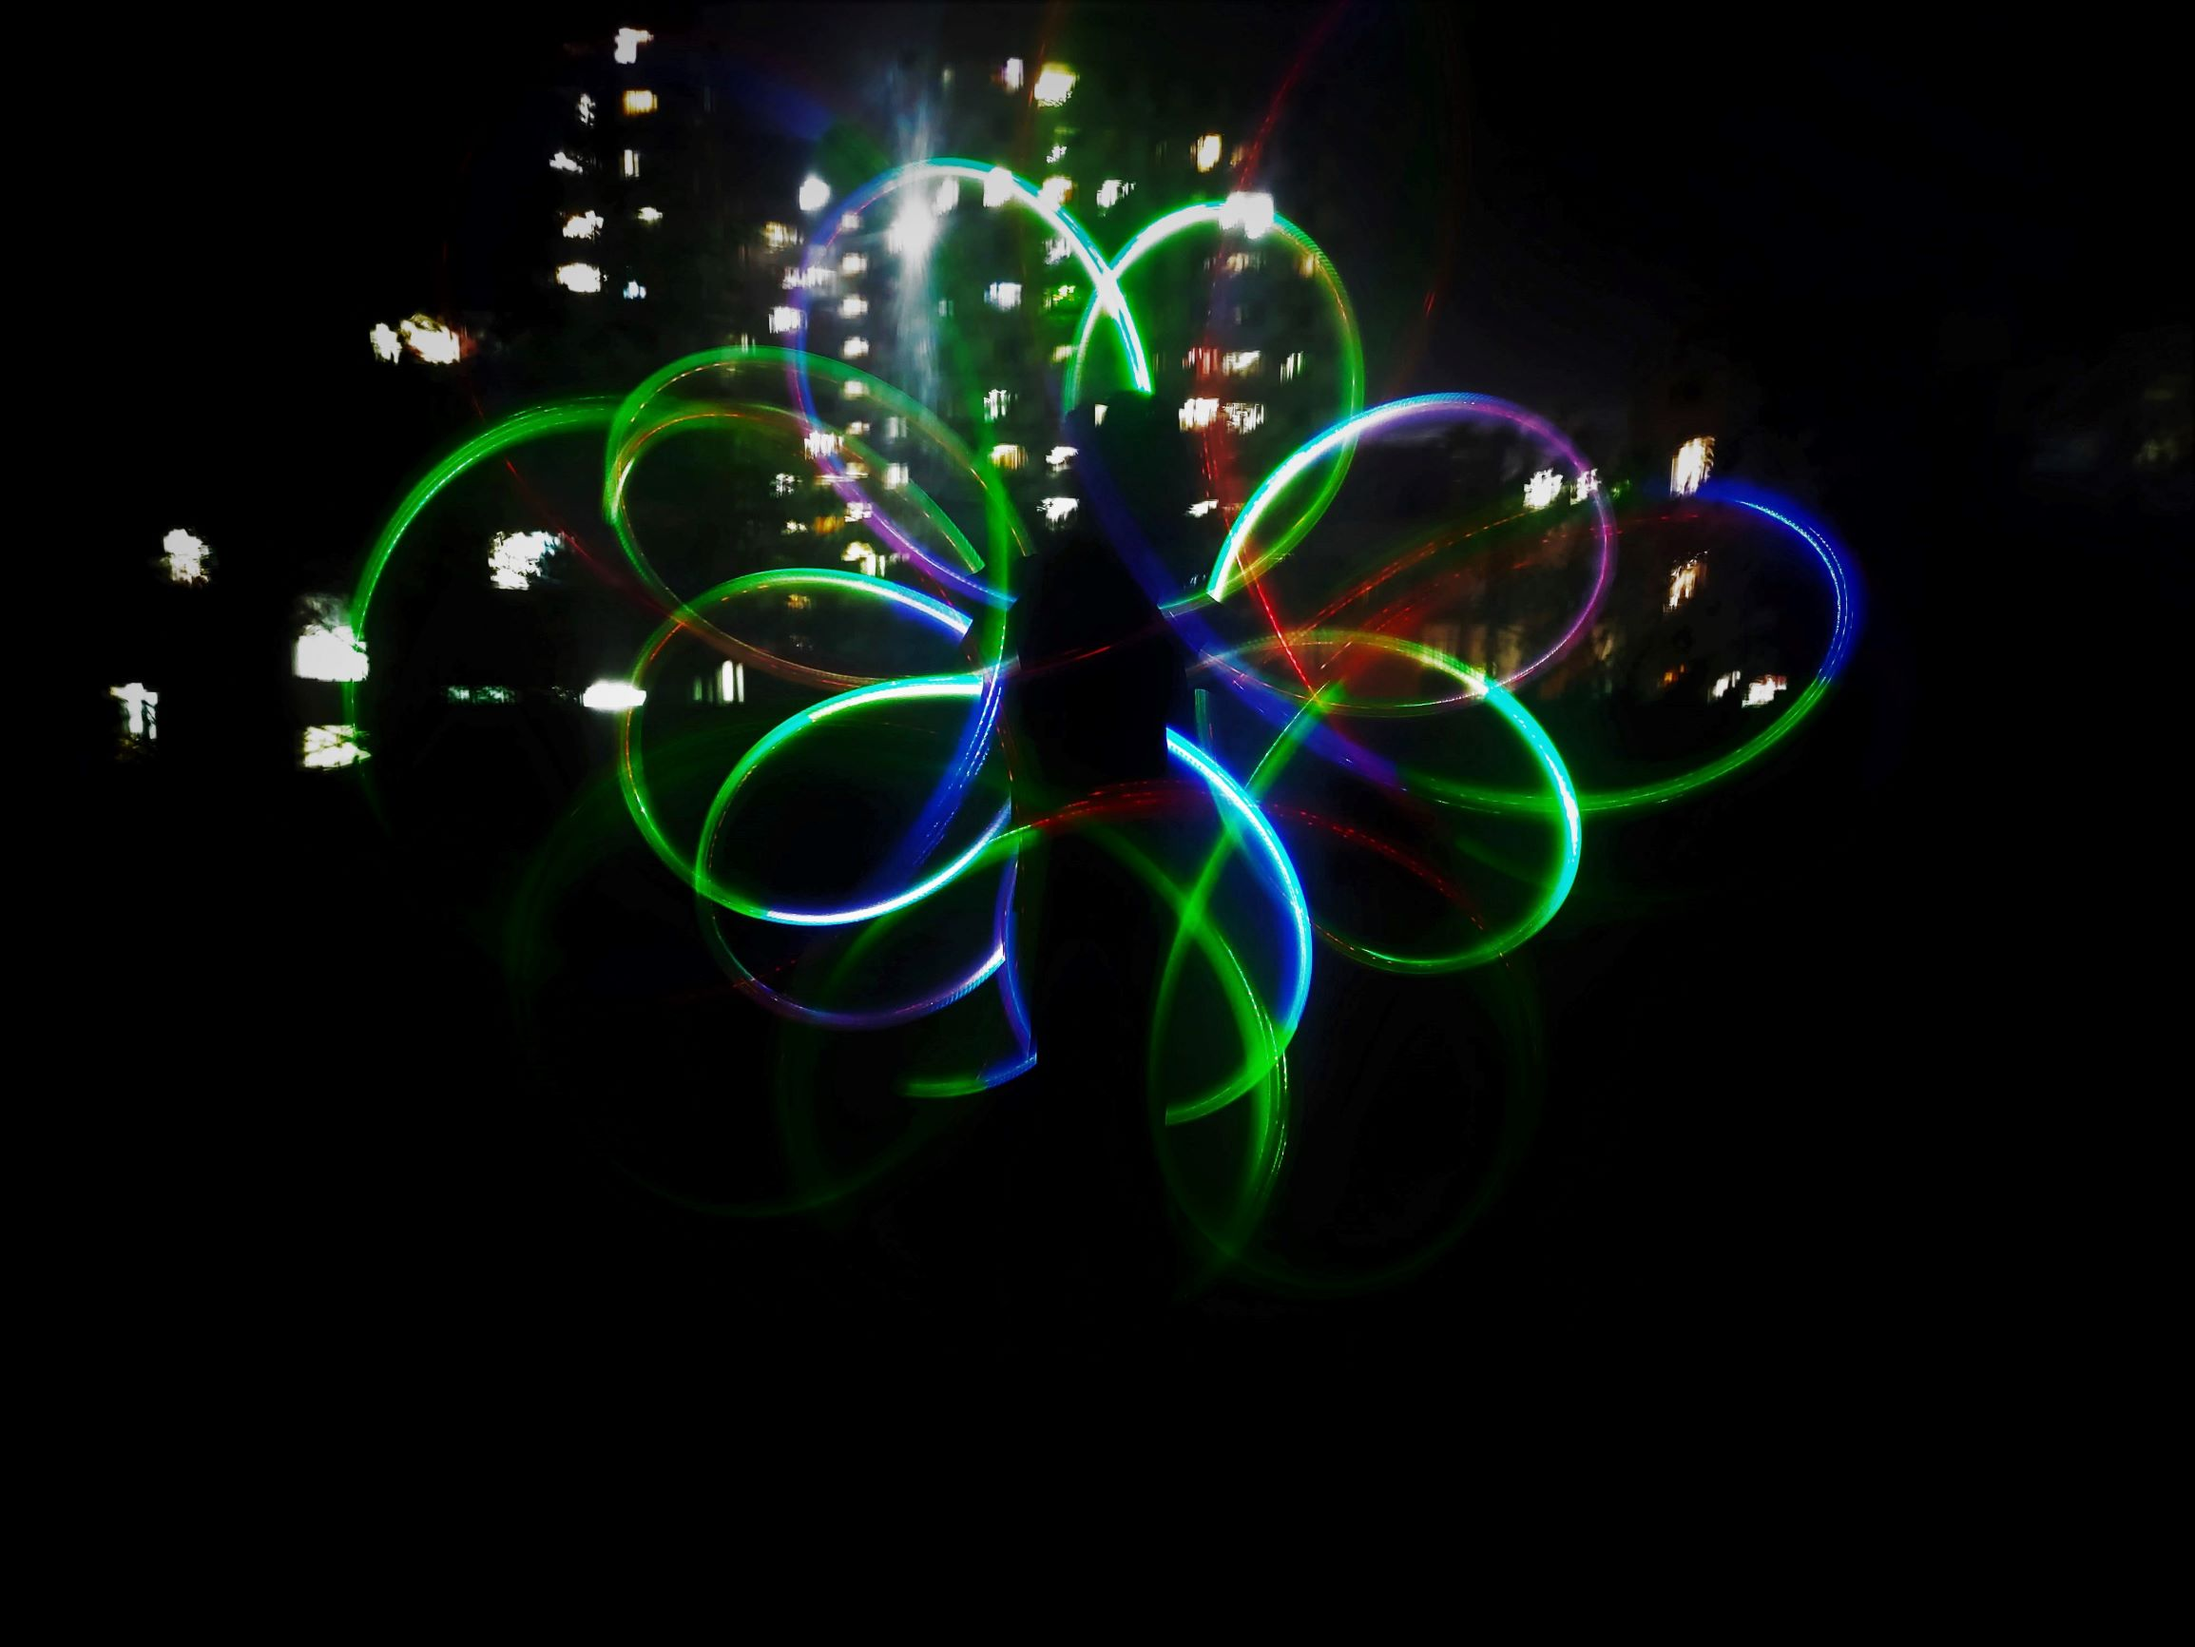
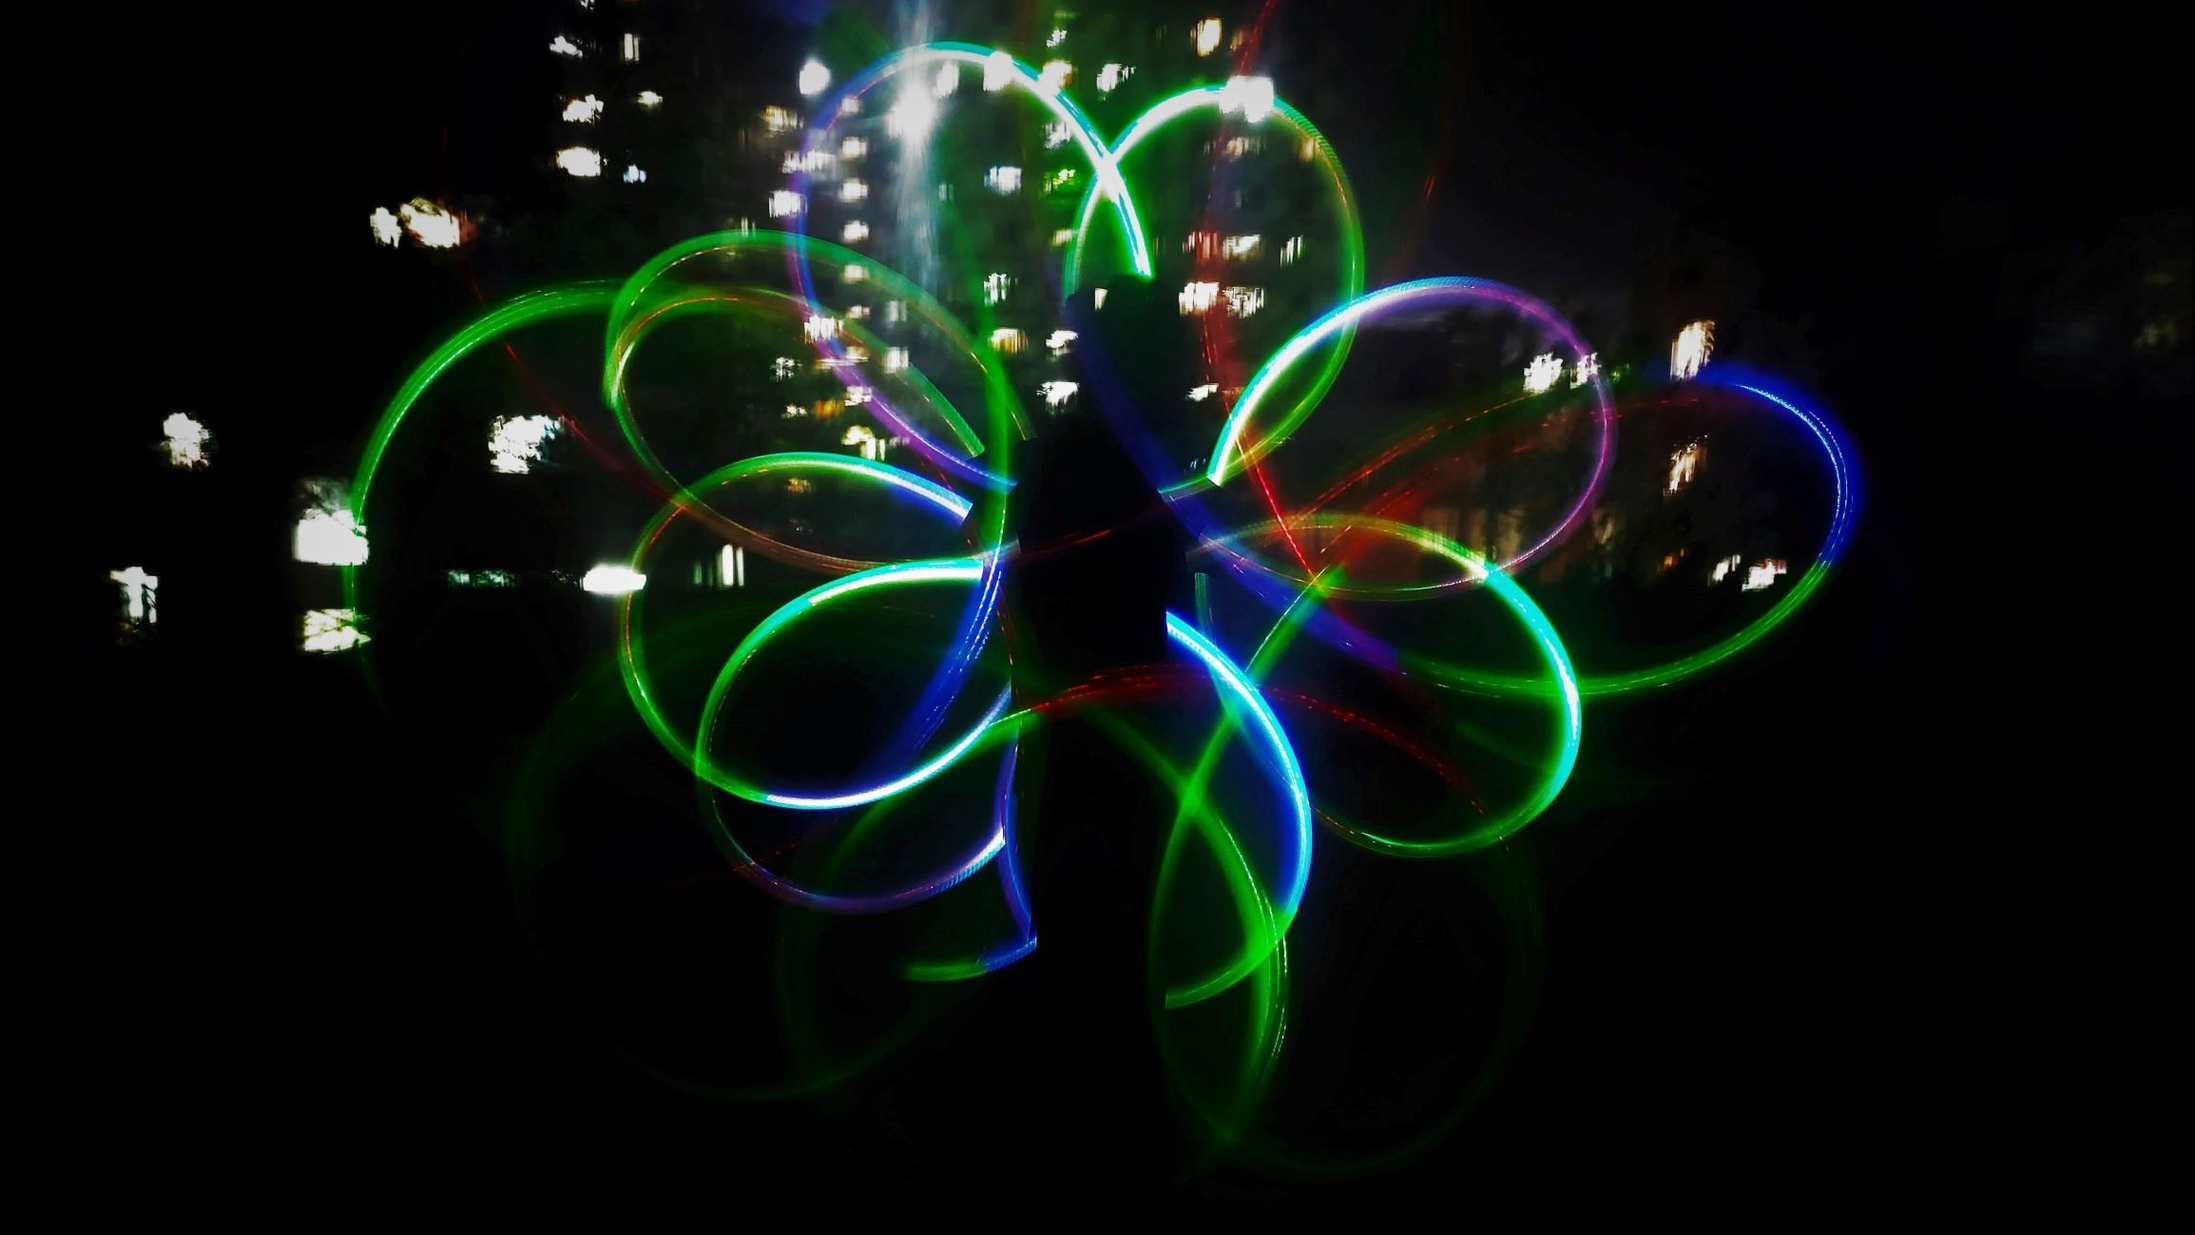
cut down the pics, and started working on colors

Changed region(s): [[0.1247, 0.0, 0.8731, 0.9238], [0.0312, 0.3079, 0.0935, 0.5235], [0.3118, 0.6774, 0.343, 0.7082]]

diff --git a/style.css b/style.css
@@ -1,7 +1,7 @@
 html,
 body {
   height: 100%;
-  background-color: #000000;
+  background-color: #200d35;
   color: white;
   margin: 0;
 }
@@ -14,45 +14,40 @@ body {
 #title h2 {
   font-family: sans-serif;
   text-align: center;
-  padding: 10px;
-  margin-top: 10px;
-  margin-bottom: 5px;
-  font-size: 50pt;
+  padding: 15px 15px;
+  font-size: 54pt;
   transition: all;
   transition-duration: 0.3s;
   width: fit-content;
-  margin: 10px auto;
-  padding: 25px;
+  margin: 5px auto;
   user-select: none;
   border-radius: 15px;
   border-bottom-left-radius: 25px;
   border-top-right-radius: 25px;
 }
 #title h2:hover {
-  background-color: rgb(41, 41, 41);
+  background-color: rgba(255, 255, 255, 0.158);
+  font-size: 56pt;
 }
 
 #description {
   display: flex;
   justify-content: center;
-  margin: 25px;
+  margin: 15px;
 }
 
 #description p {
-  padding: 15px;
+  padding: 10px 15px;
   width: 800px;
   text-align: justify;
   font-size: 15pt;
-  border-right: 2px dotted black;
-  border-left: 2px dotted black;
   transition: all;
-  transition-duration: 0.5s;
+  transition-duration: 0.2s;
   transition-timing-function: ease-in-out;
 }
 
 #description p:hover {
-  border-right: 3px solid white;
-  border-left: 3px solid white;
+  background-color: rgba(255, 255, 255, 0.185);
 }
 
 #carousel {
@@ -84,6 +79,8 @@ body {
   position: sticky;
   bottom: 0px;
   background-color: black;
+  border-bottom-right-radius: 0px;
+  border-bottom-left-radius: 0px;
 }
 
 #navbar ul {
